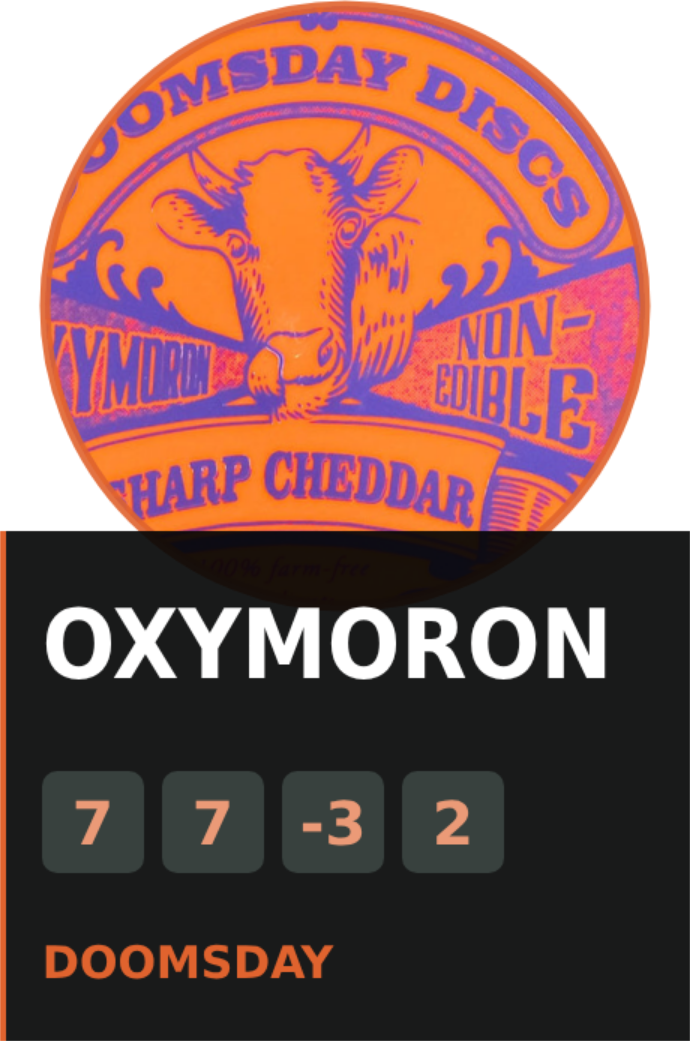
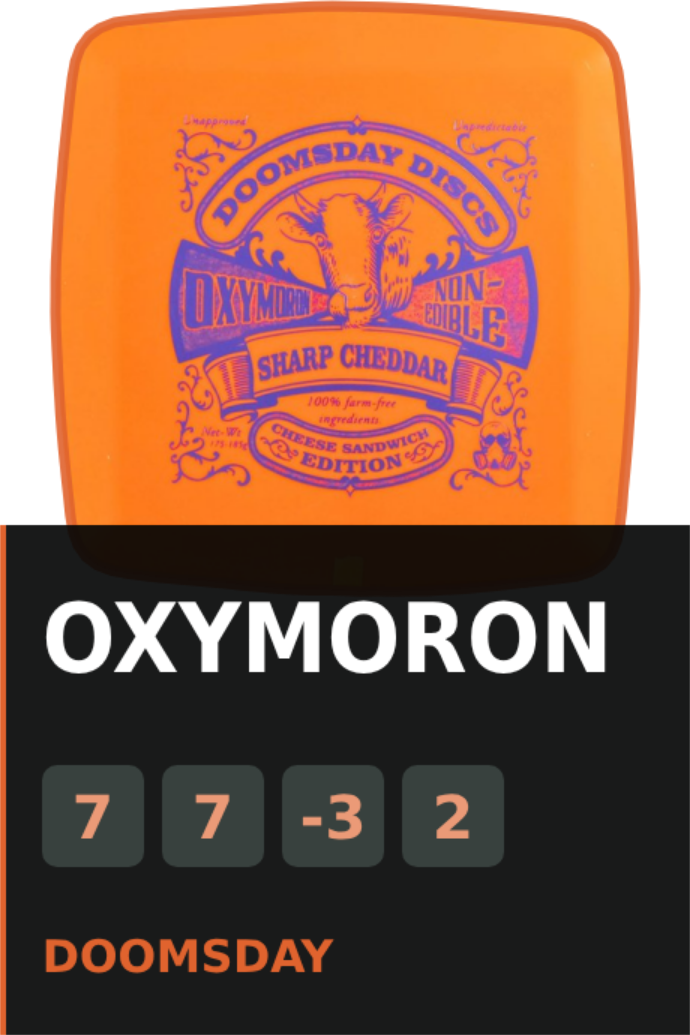
thro cards: a square disc gets a card whose frame takes its shape (Doomsday Oxymoron on /raredg)
Sam, 27 Oct: "The square disc should get a Card before I send that one off" ... "Card NOT Crop": a square disc
clipped into the round frame looks wrong; the frame has to follow the disc.

- vendor/discstudio-cards: new appearance key discOutline ([x,y] points in 0..1 of the photo frame, 16..256,
  validated in export-queue-core). drawPhotoCircle clips the photo to that path and strokes the accent ring along
  it. Without discOutline nothing changes: all 8 Rare cards re-rendered with the patched renderer are pixel-identical
  to the committed ones (webp byte-identical).
- experiences/thro-shops/prototypes/square-disc (a Prototype, not yet a registered Calculation): square-cutout.py keys
  the disc's own body colour (hue +/-4 of the plain centre's, saturation/value within 40), keeps the largest region,
  opens it with a disk so the touching cheese-sandwich label drops off, deskews from line fits on all four edges
  (0.51 deg; after: top 0.08, left 0.19, right -0.08), and exports the outline (128 points). Receipt beside it.
  render-cut.mjs renders a card from a cutout + outline with the same renderer.
- shops.json: the Oxymoron card replaces the photo tile; its video gets a download.

Claude-Session: https://claude.ai/code/session_018iN3mk7331DcyDcujukBDY

diff --git a/checkpoint/sources/pxcube/experiences/thro-shops/prototypes/square-disc/square-cutout.py b/checkpoint/sources/pxcube/experiences/thro-shops/prototypes/square-disc/square-cutout.py
@@ -1,0 +1,79 @@
+# Prototype: cut a square (non-round) disc out of a cluttered product photo by colour key on the disc's own body colour.
+import sys, json, numpy as np, cv2
+from scipy import ndimage
+src, out = sys.argv[1], sys.argv[2]
+img = cv2.imread(src); H, W = img.shape[:2]
+hsv = cv2.cvtColor(img, cv2.COLOR_BGR2HSV).astype(int)
+# 1. the body colour: the median HSV in a small centre window that is NOT the stamp (take the most common hue bin in the centre 40%)
+cy, cx = H//2, W//2; win = hsv[int(H*0.3):int(H*0.7), int(W*0.3):int(W*0.7)]
+sat_ok = (win[...,1] > 150) & (win[...,2] > 150)
+hist = np.bincount(win[...,0][sat_ok].ravel(), minlength=180); h0 = int(hist.argmax())
+dh = np.minimum(np.abs(hsv[...,0]-h0), 180-np.abs(hsv[...,0]-h0))
+# body = the disc's own colour, measured from the plain centre: hue within 4, and saturation/value no more than 40 below the centre's 10th percentile
+s10, v10 = np.percentile(win[...,1][sat_ok], 10), np.percentile(win[...,2][sat_ok], 10)
+body = (dh <= 4) & (hsv[...,1] >= s10 - 40) & (hsv[...,2] >= v10 - 40)
+# 2. keep the component under the centre, fill the stamp holes, smooth
+lab, n = ndimage.label(body); sizes = ndimage.sum(body, lab, range(1, n+1)); keep = lab == (1 + int(np.argmax(sizes)))   # the stamp sits at the centre, so take the largest body-colour component, not the one under the centre
+keep = ndimage.binary_closing(keep, iterations=4)
+keep = ndimage.binary_fill_holes(keep)
+# a large opening breaks off anything thin that touches the disc (a bundle label, another disc's edge); the disc itself is a fat square
+r = max(8, int(0.04 * np.sqrt(keep.sum()))); disk = (np.add.outer(np.arange(-r, r+1)**2, np.arange(-r, r+1)**2) <= r*r)
+keep = ndimage.binary_opening(keep, structure=disk)
+lab, n = ndimage.label(keep); sizes = ndimage.sum(keep, lab, range(1, n+1)); keep = lab == (1 + int(np.argmax(sizes)))
+if not keep[cy, cx]: sys.exit('largest body-colour region does not contain the centre')
+# 2b. deskew from the edges themselves: fit a line to each side's edge pixels over the middle 60% of that side.
+# The four slopes are the disc's tilt in the photo (a bowed or slightly perspective edge still has a straight middle).
+def edge_tilts(m):
+    yy, xx = np.where(m); a0, a1, b0, b1 = yy.min(), yy.max(), xx.min(), xx.max()
+    cols = np.arange(int(b0 + 0.2*(b1-b0)), int(b1 - 0.2*(b1-b0)))
+    rows = np.arange(int(a0 + 0.2*(a1-a0)), int(a1 - 0.2*(a1-a0)))
+    top = np.array([np.argmax(m[:, c]) for c in cols]); bot = np.array([m.shape[0]-1-np.argmax(m[::-1, c]) for c in cols])
+    lef = np.array([np.argmax(m[r, :]) for r in rows]); rig = np.array([m.shape[1]-1-np.argmax(m[r, ::-1]) for r in rows])
+    deg = lambda u, v: float(np.degrees(np.arctan(np.polyfit(u, v, 1)[0])))
+    # image y grows down: a top edge rising to the right has negative slope. Express every side as the clockwise tilt of the square.
+    return {'top': deg(cols, top), 'bottom': deg(cols, bot), 'left': -deg(rows, lef), 'right': -deg(rows, rig)}
+tilts = edge_tilts(keep); tilt = float(np.median(list(tilts.values())))
+if abs(tilt) > 0.15:
+    # cv2 rotates counter-clockwise for positive angles; a clockwise tilt t (positive slope) is undone by rotating counter-clockwise by t
+    R = cv2.getRotationMatrix2D((W/2, H/2), tilt, 1.0)
+    img = cv2.warpAffine(img, R, (W, H), flags=cv2.INTER_CUBIC, borderMode=cv2.BORDER_REPLICATE)
+    keep = cv2.warpAffine(keep.astype(np.uint8)*255, R, (W, H), flags=cv2.INTER_LINEAR) > 127
+tiltsAfter = edge_tilts(keep)
+# 3. receipts: fill ratio vs its bounding box (a square disc ~0.9+), aspect, size
+ys, xs = np.where(keep); y0,y1,x0,x1 = ys.min(), ys.max(), xs.min(), xs.max()
+bw, bh = x1-x0+1, y1-y0+1; fill = keep.sum()/(bw*bh); aspect = bw/bh
+cnt,_ = cv2.findContours(keep.astype(np.uint8), cv2.RETR_EXTERNAL, cv2.CHAIN_APPROX_SIMPLE)
+c = max(cnt, key=cv2.contourArea); peri = cv2.arcLength(c, True); approx = cv2.approxPolyDP(c, 0.02*peri, True)
+# 4. cutout 800x800: scale the bounding box into 92% of the frame, alpha = feathered mask
+# the card frame is round and clips to a circle: scale so the farthest disc pixel from the centroid sits at 97% of the frame radius
+# the card's square frame rings the disc at 97.8% of the frame (r=180 of 184): fit the bounding box to 96% so the edge sits on the ring
+# the card's frame ring (7 px, centred on the frame edge) should sit ON the disc's edge: fit the bounding box to the full frame
+S = 800; cyc, cxc = (y0+y1)/2, (x0+x1)/2; maxd = float(np.sqrt(((ys-cyc)**2 + (xs-cxc)**2).max())); scale = 0.98*S/max(bw,bh)   # the whole disc inside the frame; the card's ring follows the disc's own outline (below), not a circle or square
+# corner radius measured, not inferred: walk in from each bounding-box corner along the diagonal to the first disc pixel.
+# For a rounded square of corner radius r that gap is r*(sqrt2 - 1)*sqrt2 along the diagonal (r*(sqrt2-1) per axis step).
+gaps = []
+for (cy0, cx0, dy, dx) in [(y0, x0, 1, 1), (y0, x1, 1, -1), (y1, x0, -1, 1), (y1, x1, -1, -1)]:
+    k = 0
+    while k < min(bw, bh)//2 and not keep[cy0 + dy*k, cx0 + dx*k]: k += 1
+    gaps.append(k)
+side = (bw + bh) / 2; rs = [g / (np.sqrt(2) - 1) / side for g in gaps]
+cornerFrac = float(np.median(rs))
+alpha = ndimage.gaussian_filter(keep.astype(float), 1.0)
+rgba = np.dstack([img, (alpha*255).astype(np.uint8)])
+crop = rgba[y0:y1+1, x0:x1+1]
+nw, nh = int(round(bw*scale)), int(round(bh*scale))
+small = cv2.resize(crop, (nw, nh), interpolation=cv2.INTER_AREA)
+canvas = np.zeros((S, S, 4), np.uint8); ox, oy = max(0, (S-nw)//2), max(0, (S-nh)//2)   # bounding-box centre at the frame centre
+canvas[oy:oy+min(nh, S-oy), ox:ox+min(nw, S-ox)] = small[:min(nh, S-oy), :min(nw, S-ox)]
+cv2.imwrite(out, canvas)
+# the disc's outline in the cutout's own coordinates (0..1 of the frame): contour of the alpha, resampled to 128 points evenly by
+# arc length and lightly smoothed (circular 5-point mean). The card clips the photo to this path and strokes its ring along it.
+ca = (canvas[..., 3] > 127).astype(np.uint8)
+cc, _ = cv2.findContours(ca, cv2.RETR_EXTERNAL, cv2.CHAIN_APPROX_NONE); P = max(cc, key=cv2.contourArea)[:, 0, :].astype(float)
+seg = np.r_[0, np.cumsum(np.hypot(*np.diff(np.vstack([P, P[:1]]), axis=0).T))]; L = seg[-1]
+t = np.linspace(0, L, 128, endpoint=False); Q = np.vstack([P, P[:1]])
+pts = np.c_[np.interp(t, seg, Q[:, 0]), np.interp(t, seg, Q[:, 1])]
+k = 2; pts = np.mean([np.roll(pts, j, axis=0) for j in range(-k, k+1)], axis=0)
+outline = [[round(float(x)/S, 4), round(float(y)/S, 4)] for x, y in pts]
+json.dump({'shape': 'outline', 'points': outline, 'from': src, 'frame': S}, open(out.replace('.png', '-outline.json'), 'w'))
+print(json.dumps({'bodyHue': h0, 'bbox': [int(x0),int(y0),int(bw),int(bh)], 'fill': round(float(fill),3), 'aspect': round(float(aspect),3), 'corners': int(len(approx)), 'areaFrac': round(float(keep.sum()/(H*W)),3), 'maxRadiusPx': round(maxd,1), 'scale': round(scale,4), 'cornerFrac': round(cornerFrac,3), 'cornerGapsPx': [int(g) for g in gaps], 'tiltDeg': round(tilt,2), 'edgeTilts': {k: round(v,2) for k,v in tilts.items()}, 'edgeTiltsAfter': {k: round(v,2) for k,v in tiltsAfter.items()}}))
